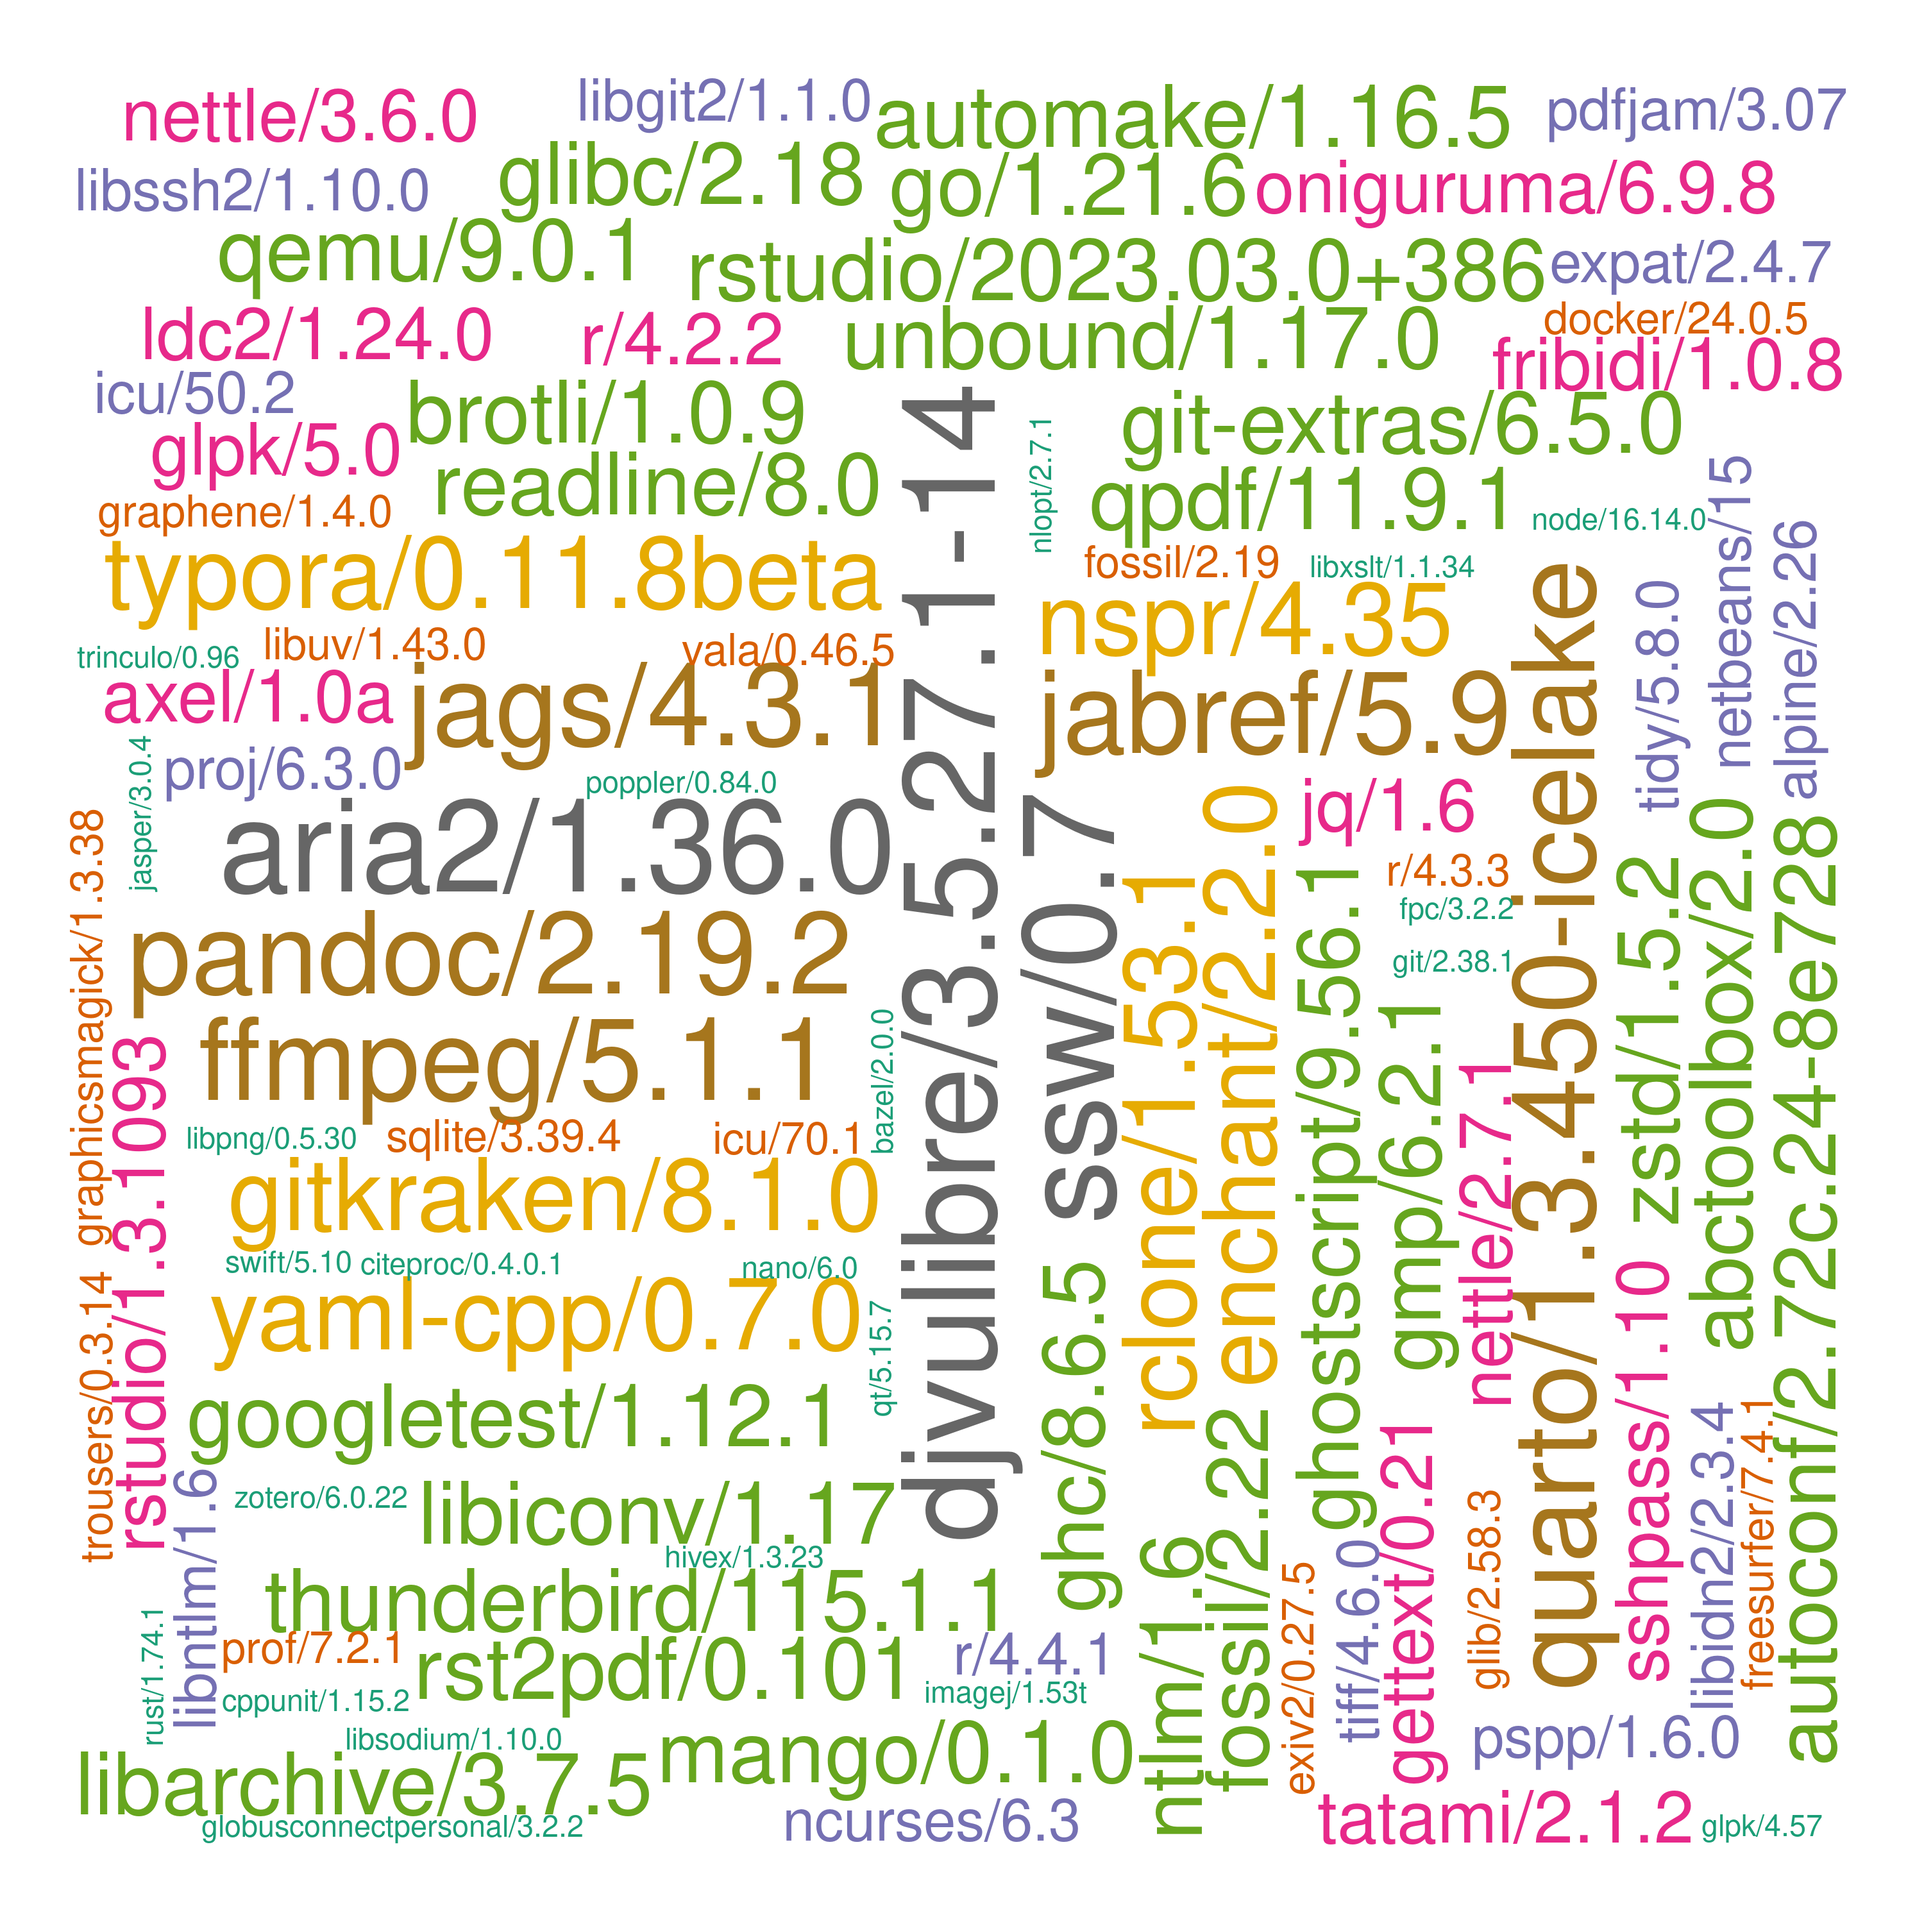
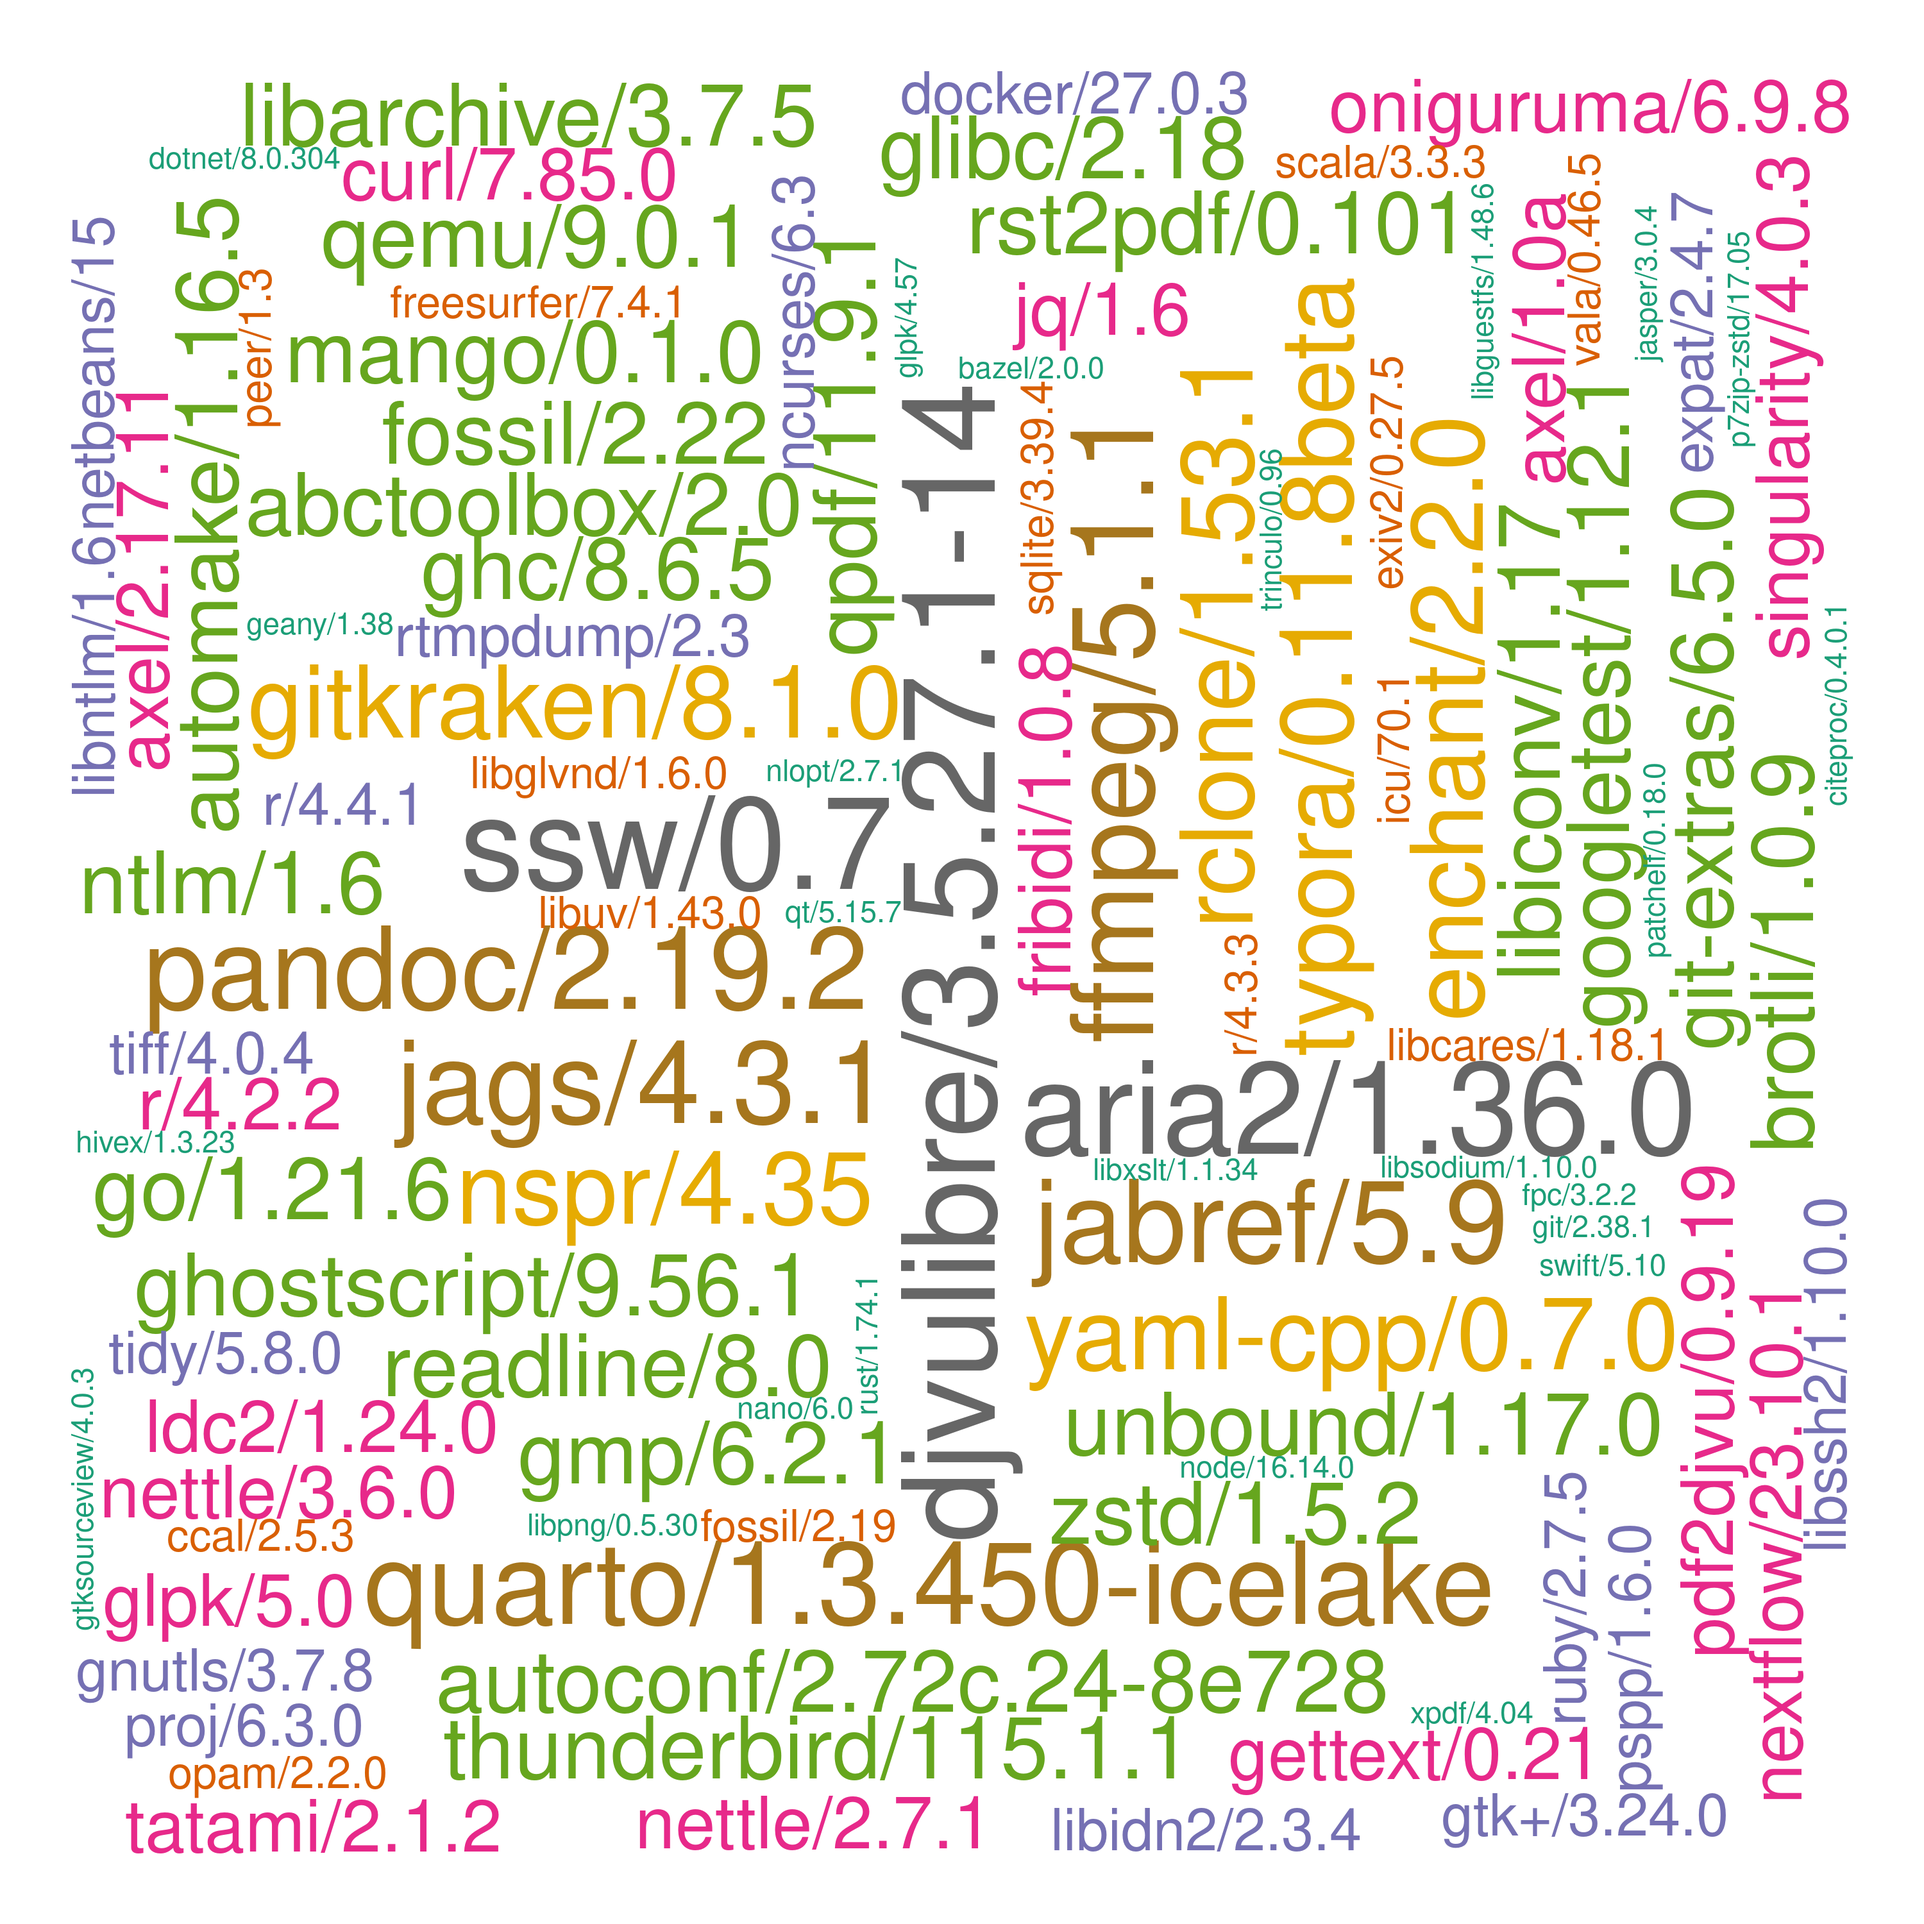
./

Changed region(s): [[0.031, 0.031, 0.961, 0.961]]

diff --git a/systems/ceuadmin.md b/systems/ceuadmin.md
@@ -47,44 +47,45 @@ The current list is as follows,
 [109] "JAGS"                   "jasper"                 "jq"                     "json-c"
 [113] "KentUtils"              "KING"                   "kojak"                  "krb5"
 [117] "lapack"                 "ldc2"                   "ldsc"                   "LDstore"
-[121] "LEMMA"                  "libarchive"             "libcares"               "libgit2"
-[125] "libglvnd"               "libiconv"               "libidn2"                "libntlm"
-[129] "libpng"                 "libseccomp"             "libsodium"              "libssh"
-[133] "libssh2"                "libuv"                  "libxml2"                "libxslt"
-[137] "linux"                  "locuszoom"              "LVM2"                   "MAGENTA"
-[141] "magma"                  "Mango"                  "MaxQuant"               "Mega2"
-[145] "metal"                  "MetaMorpheus"           "Miniconda3"             "MONSTER"
-[149] "MORGAN"                 "MR-MEGA"                "msamanda"               "MsCAVIAR"
-[153] "MSFragger"              "MS-GF+"                 "msms"                   "nano"
-[157] "ncbi-vdb"               "ncurses"                "netbeans"               "nettle"
-[161] "nextflow"               "nlopt"                  "NLopt"                  "node"
-[165] "nspr"                   "ntlm"                   "ocaml"                  "oniguruma"
-[169] "opam"                   "openjdk"                "OpenMS"                 "openssh"
-[173] "openssl"                "osca"                   "p7zip-zstd"             "PAINTOR"
-[177] "pandoc"                 "pandoc-citeproc"        "pango"                  "parallel"
-[181] "Pascal"                 "patchelf"               "pcre2"                  "pdf2djvu"
-[185] "pdfjam"                 "peer"                   "Perseus"                "pgsc_calc"
-[189] "phenoscanner"           "PhySO"                  "picard"                 "pigz"
-[193] "plink"                  "plink-bgi"              "plinkseq"               "podman"
-[197] "PoGo"                   "polyphen"               "poppler"                "popt"
-[201] "proj"                   "PRSice"                 "pspp"                   "pulsar"
-[205] "PWCoCo"                 "pwiz"                   "qctool"                 "qemu"
-[209] "qpdf"                   "qt"                     "qtcreator"              "QTLtools"
-[213] "quarto"                 "quicktest"              "R"                      "raremetal"
-[217] "rclone"                 "readline"               "regenie"                "regtools"
-[221] "RHHsoftware"            "rst2pdf"                "rstudio"                "rtmpdump"
-[225] "ruby"                   "rust"                   "samtools"               "Scala"
-[229] "seqkit"                 "shapeit"                "singularity"            "SMR"
-[233] "snakemake"              "SNP2HLA"                "snptest"                "spread-sheet-widget"
-[237] "spyder"                 "sqlite"                 "sra-tools"              "sshpass"
-[241] "ssw"                    "STAR"                   "stata"                  "SurvivalAnalysis"
-[245] "SurvivalKit"            "Swift"                  "tabix"                  "tandem"
-[249] "tatami"                 "ThermoRawFileParser"    "ThermoRawFileParserGUI" "thunderbird"
-[253] "tidy"                   "tiff"                   "trinculo"               "trousers"
-[257] "Typora"                 "unbound"                "vala"                   "VarScan"
-[261] "vcftools"               "VEGAS2"                 "verifyBamID"            "VSCode"
-[265] "VSCodium"               "vte"                    "wine"                   "xpdf"
-[269] "yaml-cpp"               "Zotero"                 "zstd"
+[121] "LEMMA"                  "libarchive"             "libcares"               "libgeotiff"
+[125] "libgit2"                "libglvnd"               "libiconv"               "libidn2"
+[129] "libjpeg-turbo"          "libntlm"                "libpng"                 "libseccomp"
+[133] "libsodium"              "libssh"                 "libssh2"                "libuv"
+[137] "libxml2"                "libxslt"                "linux"                  "locuszoom"
+[141] "LVM2"                   "MAGENTA"                "magma"                  "Mango"
+[145] "MaxQuant"               "Mega2"                  "metal"                  "MetaMorpheus"
+[149] "Miniconda3"             "MONSTER"                "MORGAN"                 "MR-MEGA"
+[153] "msamanda"               "MsCAVIAR"               "MSFragger"              "MS-GF+"
+[157] "msms"                   "nano"                   "ncbi-vdb"               "ncurses"
+[161] "netbeans"               "nettle"                 "nextflow"               "nlopt"
+[165] "NLopt"                  "node"                   "nspr"                   "ntlm"
+[169] "ocaml"                  "oniguruma"              "opam"                   "openjdk"
+[173] "OpenMS"                 "openssh"                "openssl"                "osca"
+[177] "p7zip-zstd"             "PAINTOR"                "pandoc"                 "pandoc-citeproc"
+[181] "pango"                  "parallel"               "Pascal"                 "patchelf"
+[185] "pcre2"                  "pdf2djvu"               "pdfjam"                 "peer"
+[189] "Perseus"                "pgsc_calc"              "phenoscanner"           "PhySO"
+[193] "picard"                 "pigz"                   "plink"                  "plink-bgi"
+[197] "plinkseq"               "podman"                 "PoGo"                   "polyphen"
+[201] "poppler"                "popt"                   "proj"                   "PRSice"
+[205] "pspp"                   "pulsar"                 "PWCoCo"                 "pwiz"
+[209] "qctool"                 "qemu"                   "qpdf"                   "qt"
+[213] "qtcreator"              "QTLtools"               "quarto"                 "quicktest"
+[217] "R"                      "raremetal"              "rclone"                 "readline"
+[221] "regenie"                "regtools"               "RHHsoftware"            "rst2pdf"
+[225] "rstudio"                "rtmpdump"               "ruby"                   "rust"
+[229] "samtools"               "Scala"                  "seqkit"                 "shapeit"
+[233] "singularity"            "SMR"                    "snakemake"              "SNP2HLA"
+[237] "snptest"                "spread-sheet-widget"    "spyder"                 "sqlite"
+[241] "sra-tools"              "sshpass"                "ssw"                    "STAR"
+[245] "stata"                  "SurvivalAnalysis"       "SurvivalKit"            "Swift"
+[249] "tabix"                  "tandem"                 "tatami"                 "ThermoRawFileParser"
+[253] "ThermoRawFileParserGUI" "thunderbird"            "tidy"                   "tiff"
+[257] "trinculo"               "trousers"               "Typora"                 "unbound"
+[261] "vala"                   "VarScan"                "vcftools"               "VEGAS2"
+[265] "verifyBamID"            "VSCode"                 "VSCodium"               "vte"
+[269] "wine"                   "xpdf"                   "yaml-cpp"               "Zotero"
+[273] "zstd"
 ```
 
 These are wrapped up as :star::star::star: **[modules](https://modules.readthedocs.io/en/latest/index.html)** :star::star::star:.
